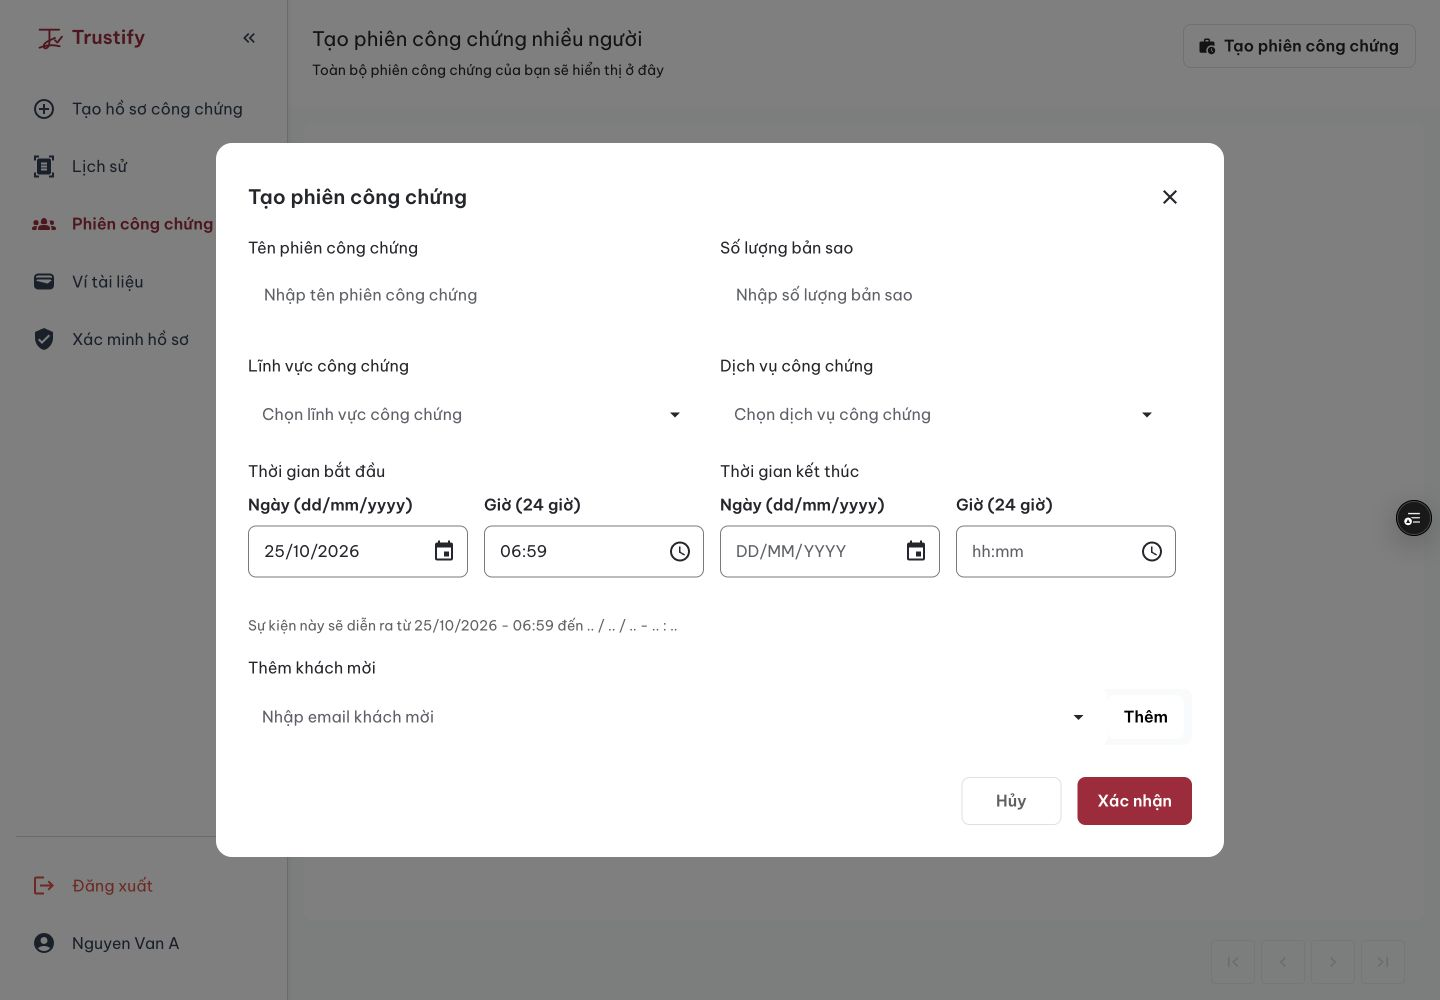
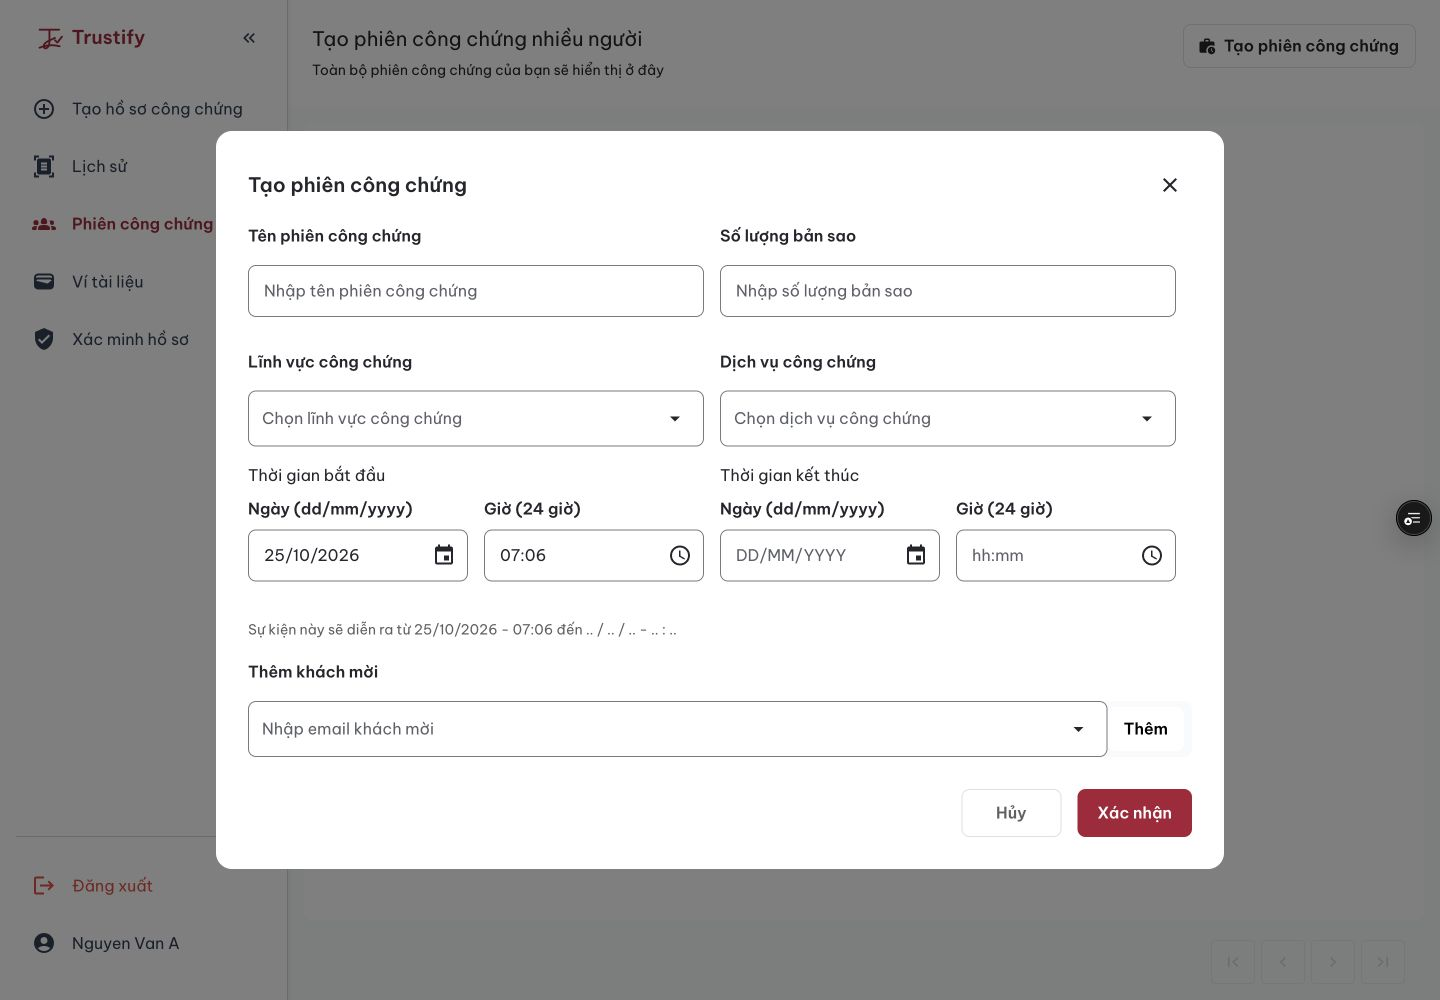
docs: verify corrected session inputs on Vercel

diff --git a/docs/design/screenshots/02b/README.md b/docs/design/screenshots/02b/README.md
@@ -2,7 +2,7 @@
 
 Base: main f69e375. Local app with the existing API; desktop 1440×1000, mobile 390×844. Images capture the viewport. No account saves, notarization submissions, signatures or payments were performed.
 
-22 targeted tests, CRA ESLint and `CI=false npm run build` pass. Existing CRA/Browserslist warnings remain. Browser checks cover all three roles, associated labels, leading zeros, city clearing and cancel/reset. Calendar geometry checks confirm 44px days inside its mobile paper.
+23 targeted tests, CRA ESLint and `CI=false npm run build` pass. Existing CRA/Browserslist warnings remain. Browser checks cover all three roles, associated labels, leading zeros, city clearing and cancel/reset. Calendar geometry checks confirm 44px days inside its mobile paper.
 
 Known gap: the existing authenticated shell still overflows at 390px; step 03 must resolve every authenticated route. Upload, stepper, feedback and responsive tables remain separate shared-component slices.
 
@@ -179,3 +179,5 @@ Primary deployment Ready; QA accounts for User, Notary and Admin clicked through
 ![vercel-user-wizard-desktop](vercel-user-wizard-desktop.png)
 
 ![vercel-user-wizard-mobile](vercel-user-wizard-mobile.png)
+
+Review round 1: session form outlines restored and all five labels associated; local and deployed computed border checks pass. Updated Vercel deployment GaRYpuA1rtoiijSQLjA7S5A7Q68z is Ready. Source 4e1d4f2.

diff --git a/docs/design/PROGRESS.md b/docs/design/PROGRESS.md
@@ -32,4 +32,4 @@ All timestamps use Asia/Ho_Chi_Minh (UTC+07). Merge requires Claude’s `review:
 - PR #11 merged with review approval; main production Ready and homepage healthy. Design 03 acceptance: temporary Drawer at xs/sm and no horizontal overflow at 390px on every authenticated route. Admin empty pagination count follows in step 08.
 - 02b — Shared form controls, PR #12, 2026-10-25 07:02: build, CRA ESLint and 22 tests pass; 15 before/after pairs and all-role local read-only QA complete. Vercel primary Ready; authenticated User/Notary/Admin preview click-through complete, 10 preview screenshots. Ready for Claude review.
 
-- PR #12 review round 1: removed three border-suppressing rules and linked all five session fields through FieldLabel/useId. Local 1440/390 captures and computed border checks pass; build/ESLint/23 tests pass. Preview recheck pending. Profile save action footer follows in step 06.
+- PR #12 review round 1: removed three border-suppressing rules and linked all five session fields through FieldLabel/useId. Local 1440/390 captures and computed border checks pass; build/ESLint/23 tests pass. Vercel updated deployment Ready; five linked inputs have solid 1px borders, and 1440/390 preview screenshots refreshed. Re-requesting Claude review. Profile save action footer follows in step 06.
